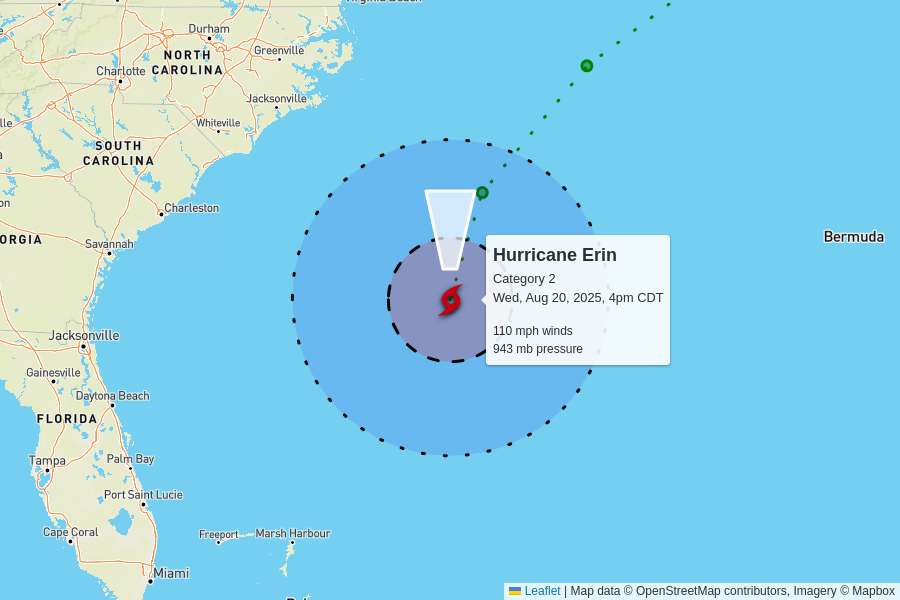
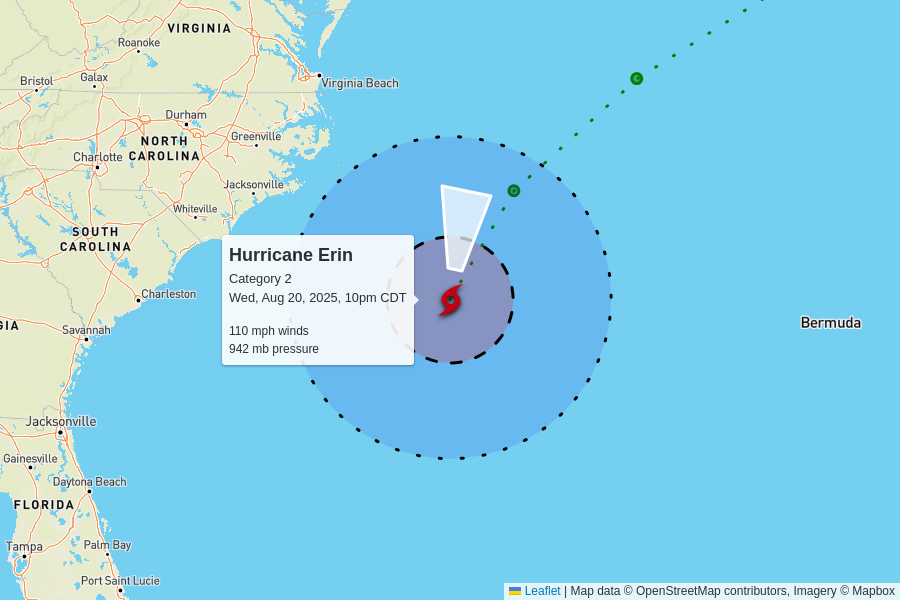
automatic update

diff --git a/docs/index.html b/docs/index.html
@@ -102,7 +102,7 @@
         <td colspan="6" class="storm category-2" >
           <h2>
             Hurricane Erin - Category 2
-            <p class="updated">last updated <span data-time>2025-08-20T21:00:00.000Z</span></p>
+            <p class="updated">last updated <span data-time>2025-08-21T03:00:00.000Z</span></p>
           </h2>
         </td>
       </tr>
@@ -118,11 +118,11 @@
       <tr>
         <td class="spacer"></td>
         <td>110 mph<br>0 mph since last update</td>
-        <td>943 mb<br>+2 mb since last update</td>
+        <td>942 mb<br>-1 mb since last update</td>
         <td>
-          14 mph to the north
+          16 mph to the north
           <br/>
-          <span style="display: inline-block; font-size: 1.5em; transform: rotate(360deg);">↑</span>
+          <span style="display: inline-block; font-size: 1.5em; transform: rotate(10deg);">↑</span>
         </td>
         <td><a href="https://raw.githubusercontent.com/mgwalker/atlantic-hurricanes/main/data/csv/AL052025.csv">AL052025.csv</a></td>
         <td><a href="https://www.nhc.noaa.gov/archive/2025/ERIN.shtml?">NHC advisories</a></td>
